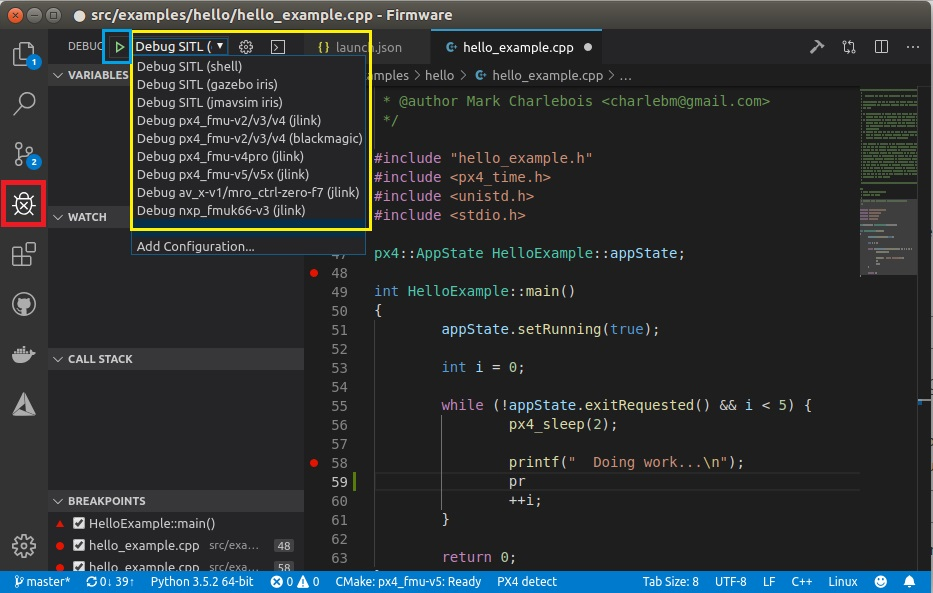
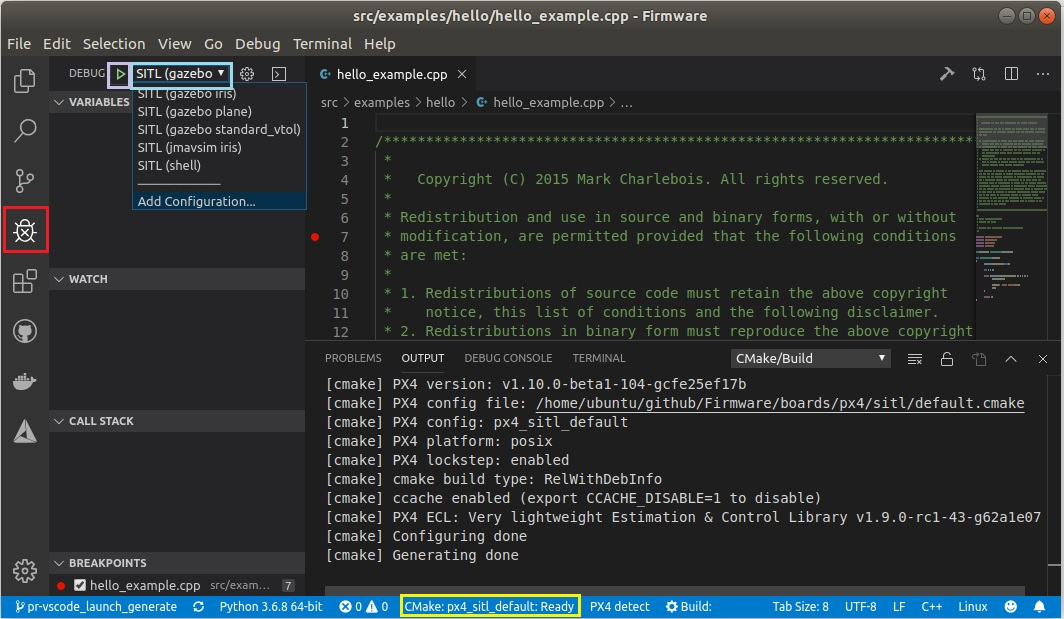
Update vscode with version caveats

Changed region(s): [[0.0, 0.0, 1.0, 1.0], [0.0, 0.6678, 0.1243, 0.7285], [0.0622, 0.5767, 0.1243, 0.6374]]

diff --git a/en/setup/vscode.md b/en/setup/vscode.md
@@ -1,6 +1,9 @@
 # Visual Studio Code IDE (VSCode)
 
-Visual Studio Code is a powerful cross-platform source code editor/IDE that can be used for PX4 development on Linux and macOS (Windows support coming soon).
+Visual Studio Code is a powerful cross-platform source code editor/IDE that can be used for PX4 development on Linux 18.04 LTS and macOS (Windows support coming soon).
+
+> **Note** VSCode works on Ubuntu 18.04 configured with the [normal PX4 SITL/NuttX development environment](../setup/dev_env_linux_ubuntu.md).
+  Ubuntu 16.04 allows you to build but not debug targets.
 
 There are a number of reasons to use VSCode for PX4 development:
 - Getting setup *really* only takes a few minutes.
@@ -46,12 +49,12 @@ You must already have installed the command line [PX4 developer environment](../
 
 To build:
 1. Select your build target ("cmake build config"):
-   - The current *cmake build target* is shown on the blue *config* bar at the bottom (if already your target, skip to next step).
+   - The current *cmake build target* is shown on the blue *config* bar at the bottom (if this is already your desired target, skip to next step).
      ![Select Cmake build target](../../assets/vscode/cmake_build_config.jpg)
    - Click the target on the config bar to display other options, and select the one you want (this will replace any selected target).
    - *Cmake* will then configure your project (see notification in bottom right).
-     ![Cmake config project](../../assets/vscode/cmake_configuring_project.jpg).
-   - Wait until this completes.
+     ![Cmake config project](../../assets/vscode/cmake_configuring_project.jpg)
+   - Wait until configuration completes.
      When this is done the notification will disappear and you'll be shown the build location:
      ![Cmake config project](../../assets/vscode/cmake_configuring_project_done.jpg).
 1. You can then kick off a build from the config bar (select either **Build** or **Debug**).
@@ -67,8 +70,10 @@ To debug PX4 on SITL:
 1. Select the debug icon on the sidebar (marked in red) to display the debug panel.
    ![Run debug](../../assets/vscode/vscode_debug.jpg)
 
-1. Then choose your debug target (e.g. *Debug SITL (Gazebo Iris)*) from the top bard dropdown (shown in yellow).
-1. Start debugging by clicking the debug arrow - next to the debug target in the top bar (shown in blue).
+1. Then choose your debug target (e.g. *Debug SITL (Gazebo Iris)*) from the top bar debug dropdown (light blue markup).
+   > **Note** The debug target (light blue box) must match you build target (yellow box on the bottom bar).
+     For example, to debug SITL, your build target must include SITL.
+1. Start debugging by clicking the debug "play" arrow (next to the debug target in the top bar - marked in purple).
 
 While debugging you can set breakpoints, step over code, and otherwise develop as normal.
 

diff --git a/en/SUMMARY.md b/en/SUMMARY.md
@@ -15,7 +15,7 @@
       * [Virtual Machine Toolchain](setup/dev_env_windows_vm.md)
       * [Bash on Windows Toolchain](setup/dev_env_windows_bash_on_win.md)
       * [Msys Toolchain](setup/dev_env_windows_msys.md)
-    * [Visual Studio Code IDE (VSCode)](setup/vscode.md)
+    * [Visual Studio Code IDE](setup/vscode.md)
     * [Fast RTPS installation](setup/fast-rtps-installation.md)
     * [Additional Tools](setup/generic_dev_tools.md)
   * [Building the Code](setup/building_px4.md)
